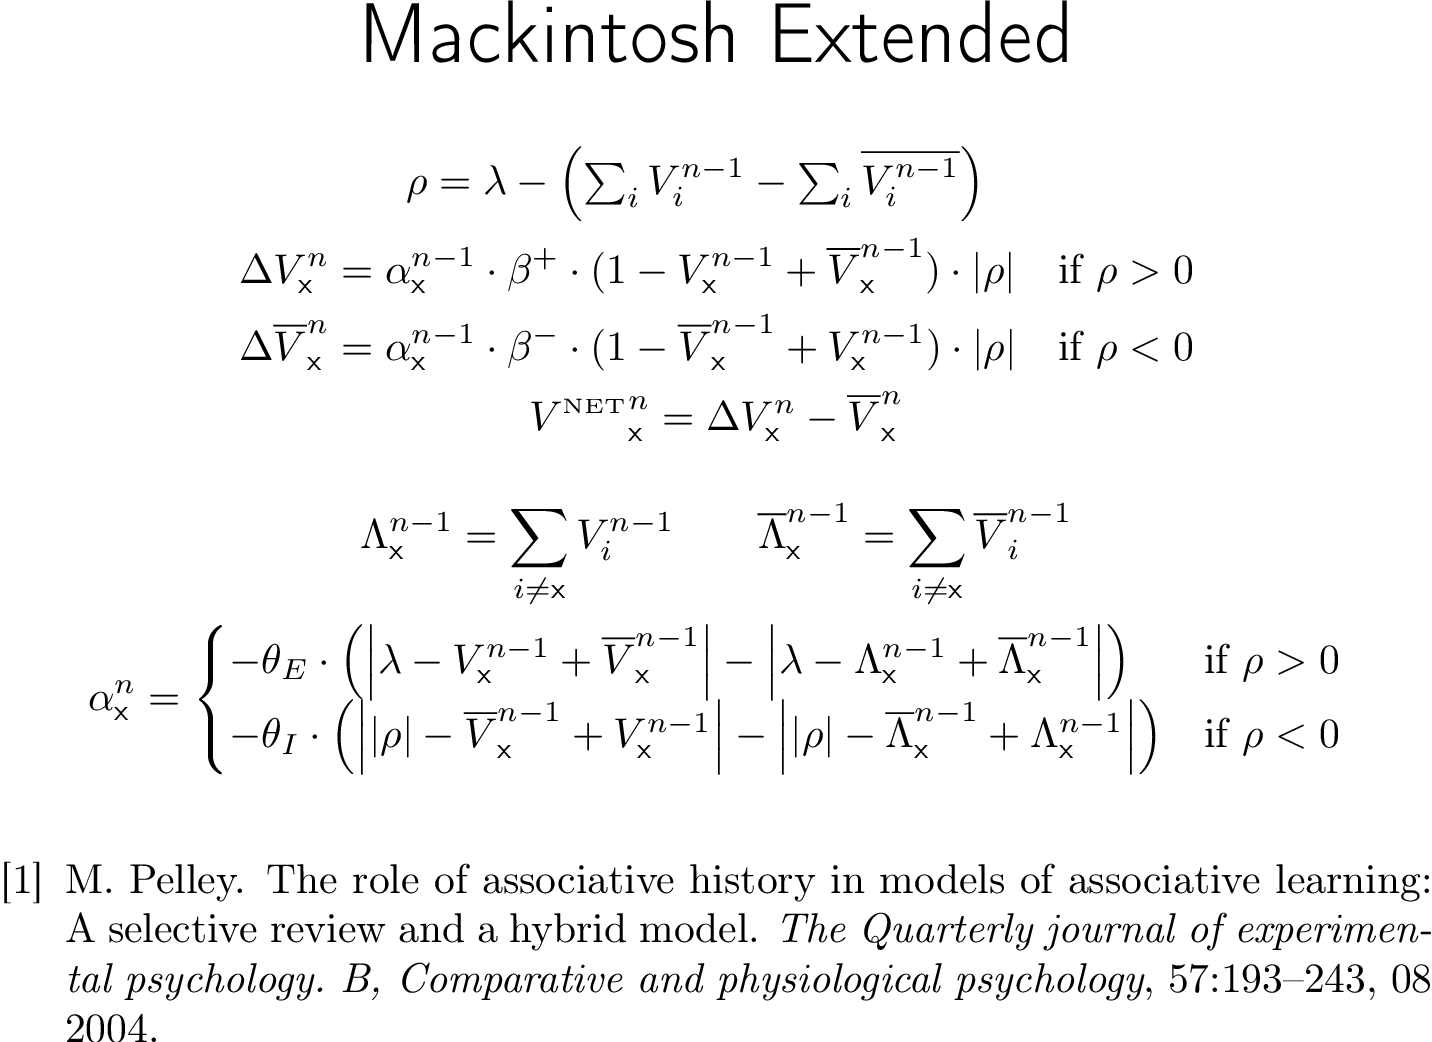
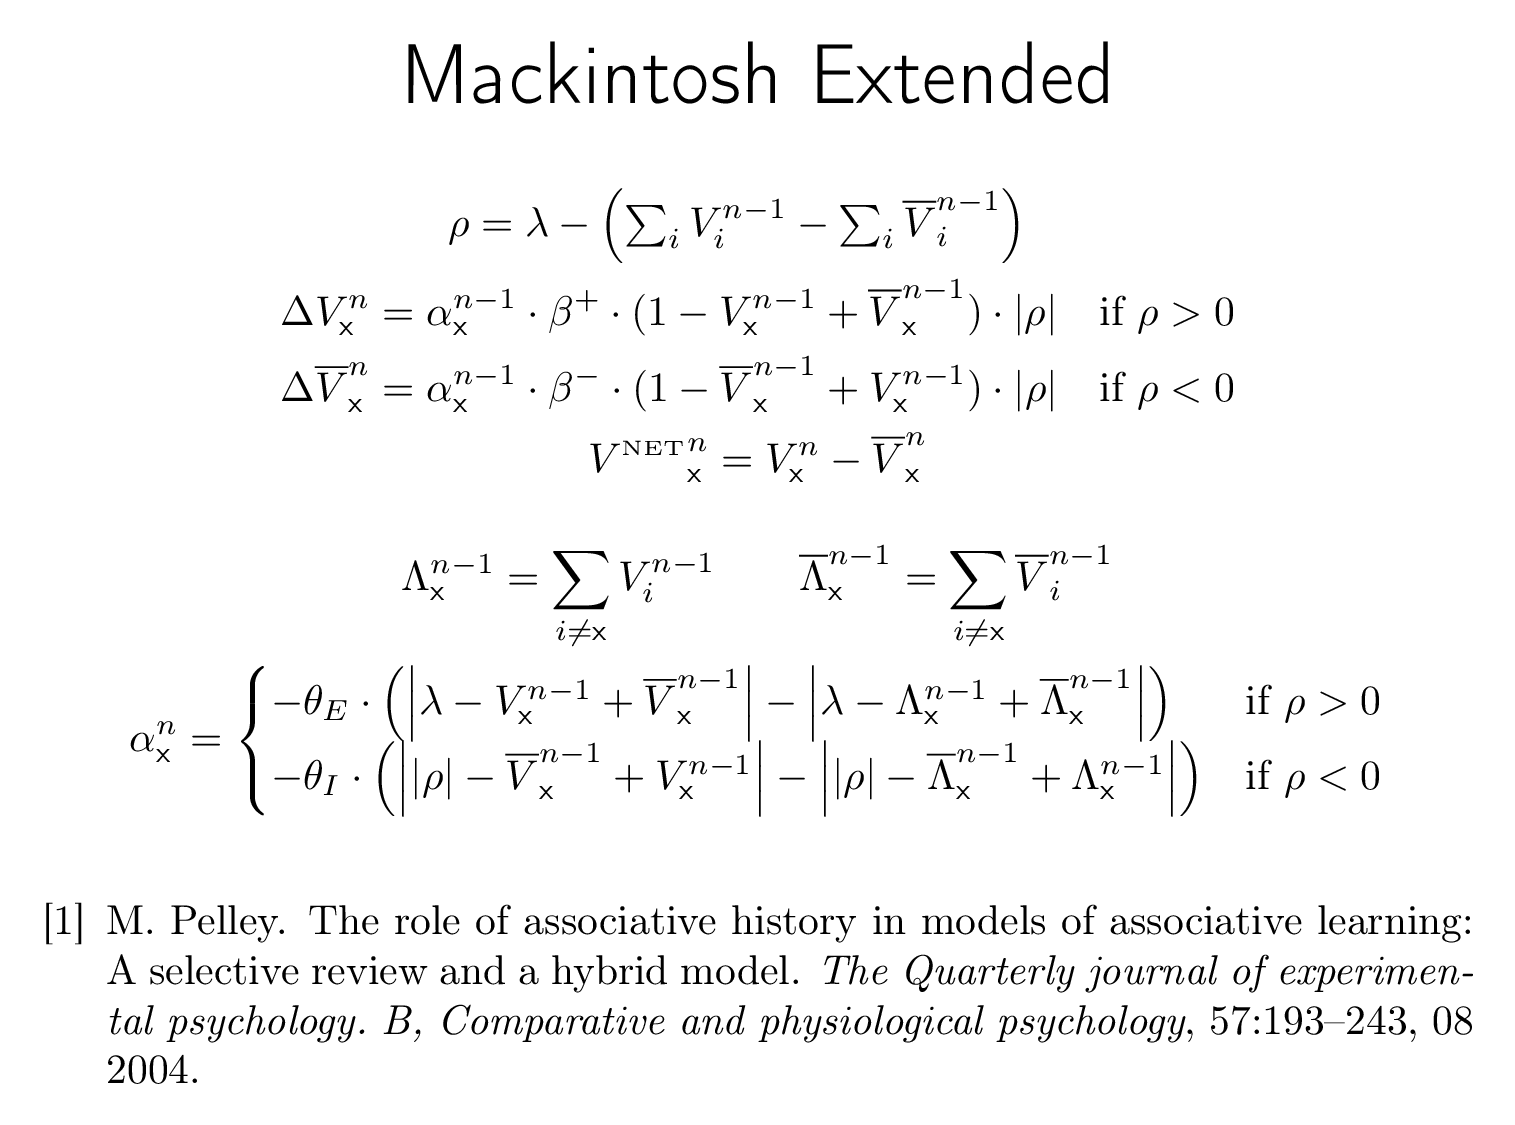
Fixing the formula for Mackintosh (overshadowing still does not work).

diff --git a/AdaptiveType.py b/AdaptiveType.py
@@ -212,27 +212,24 @@ class LePelley(AdaptiveType):
 
     def step(self, s: Stimulus, rp: RunParameters):
         rho = rp.lamda - (rp.sigmaE - rp.sigmaI)
-
-        VXe = rp.sigmaE - s.Ve
-        VXi = rp.sigmaI - s.Vi
-
         betap = rp.beta if rp.sign else self.betap
 
-        DVe = 0.
-        DVi = 0.
-        if rho >= 0:
-            DVe = s.alpha * betap * (1 - s.Ve + s.Vi) * abs(rho)
+        # LomE and LomI are \Lambda and \overline{\Lambda} in the formulas.
+        LomE = rp.sigmaE - s.Ve
+        LomI = rp.sigmaI - s.Vi
 
-            if rho > 0:
-                s.alpha += -self.thetaE * (abs(rp.lamda - s.Ve + s.Vi) - abs(rp.lamda - VXe + VXi))
-        else:
+        if rho > 0:
+            DVe = s.alpha * betap * (1 - s.Ve + s.Vi) * abs(rho)
+            s.alpha += -self.thetaE * (abs(rp.lamda - s.Ve + s.Vi) - abs(rp.lamda - LomE + LomI))
+            s.Ve += DVe
+        elif rho < 0:
             DVi = s.alpha * self.betan * (1 - s.Vi + s.Ve) * abs(rho)
-            s.alpha += -self.thetaI * (abs(abs(rho) - s.Vi + s.Ve) - abs(abs(rho) - VXi + VXe))
+            s.alpha += -self.thetaI * (abs(abs(rho) - s.Vi + s.Ve ) - abs(abs(rho) - LomI + LomE ))
+            s.Vi += DVi
+
+        s.assoc = s.Ve - s.Vi
 
         s.alpha = min(max(s.alpha, 0.05), 1)
-        s.Ve += DVe
-        s.Vi += DVi
-
         s.assoc = s.Ve - s.Vi
 
 class LePelleyHybrid(AdaptiveType):

diff --git a/resources/Extended_Mack.tex b/resources/Extended_Mack.tex
@@ -1,4 +1,4 @@
-\documentclass[varwidth]{standalone}
+\documentclass[border=10pt,varwidth]{standalone}
 \usepackage{amsmath}
 \usepackage{amssymb}
 \usepackage[T1]{fontenc}
@@ -22,13 +22,13 @@
 \end{center}
 \begin{gather*}
 	\begin{aligned}
-		\rho &= \lambda - \left( \textstyle\sum_i V_i^{n - 1} - \textstyle\sum_i \overline{V_i^{n - 1}} \right)
+		\rho &= \lambda - \left( \textstyle\sum_i V_i^{n - 1} - \textstyle\sum_i \overline{V}_i^{n - 1} \right)
 	\end{aligned} \\
 	\begin{aligned}
 		\Delta V_\eks^n &= \alpha_\eks^{n - 1} \cdot \beta^+ \cdot (1 - V_\eks^{n - 1} + \overline{V}_\eks^{n - 1}) \cdot \left| \rho \right| & \text{if } \rho > 0 \\
 		 \Delta \overline{V}_\eks^n &= \alpha_\eks^{n - 1} \cdot \beta^- \cdot (1 - \overline{V}_\eks^{n - 1} + V_\eks^{n - 1}) \cdot \left| \rho \right| & \text{if } \rho < 0
 	\end{aligned} \\
-	{V^{\text{\tiny\scshape NET}}}_\eks^n = \Delta V_\eks^n - \overline{V}_\eks^n \\[1em]
+	{V^{\text{\tiny\scshape NET}}}_\eks^n = V_\eks^n - \overline{V}_\eks^n \\[1em]
 	\Lambda^{n - 1}_\eks = \sum_{i \neq \eks} V^{n - 1}_i \qquad
 	\overline{\Lambda}^{n - 1}_\eks = \sum_{i \neq \eks} \overline{V}^{n - 1}_i \\
 	\alpha_\eks^n =

diff --git a/PALMS.py b/PALMS.py
@@ -539,9 +539,7 @@ def main():
 
     dpi = args.dpi
     if dpi is None:
-        dpi = 110 * app.primaryScreen().devicePixelRatio()
-        if forceRatio:
-            dpi = 110
+        dpi = 110
 
     logging.info('Creating gallery')
 
